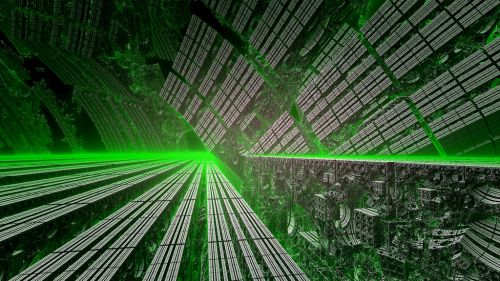
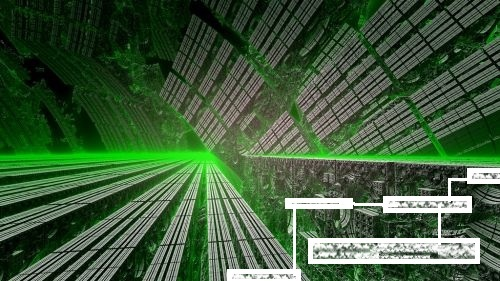
documentation_v3

Changed region(s): [[0.45, 0.6548, 0.96, 1.0], [0.9, 0.5979, 1.0, 0.6548]]

diff --git a/docs/documentation.html b/docs/documentation.html
@@ -46,14 +46,17 @@
 			<h1>Detalii despre design</h1>
 			  <h3>Reprezentare idee de pornire:</h3>
         <img src="./mocks/20181029_141759.jpg" alt="Idee"  width="500" height="400">
-       
-      	<p>Paleta de culori a fost aleasa de asa natura pentru a nu obosi utilizatorul si pentru a inspira profesionalism.</p>
+        <p>Pe parcursul dezvoltarii designului aplicatiei am luat in considerare doi factori importanti:armonizarea elementelor componente si oferirea accesului la
+        acestea facil,pe orice fel de device.</p>
+      	<p>Paleta de culori a fost aleasa de asa natura pentru a nu obosi utilizatorul,a nu-l distrage de la activitatea ce o desfasoara(construirea bazei de date) si pentru a inspira profesionalism.</p>
 		</section>
     <section id="interactiune">
 		 	<h1>Maniera de interactiune cu utilizatorul</h1>
-      <p> <p>Pentru a fluidiza interactiunea utilizatorului cu aplicatia, ne-am concentrat pe crearea unui mediu cat mai prietenos, ce ii facilizeaza accesul la toate
-        uneltele necesare ducerii activitatii la bun sfarsit.Adaugarea de tabele,relatii se va face cu usurinta,tate aceste obtiuni fiind puse la vedere in Navbar. </p>
-			  <p>Reprezentarea grafica a tabelelor si a relatiilor dintre ele va reprezenta piesa centrala, scopul acesteia fiind oferirea utilizatorului a unei imagini de ansamblu cat mai detaliata a bazei de date pe care are de gand sa o creeze.</p> </p>
+        <p>Pentru a fluidiza interactiunea utilizatorului cu aplicatia, ne-am concentrat pe crearea unui mediu cat mai prietenos, ce ii facilizeaza accesul la toate
+        uneltele necesare ducerii activitatii la bun sfarsit.Adaugarea de tabele,relatii se va face cu usurinta,toate aceste obtiuni fiind puse la vedere in Navbar,precum si obtiunile de generare a codului SQL corespunzator bazei de date create. </p>
+			  <p>Reprezentarea grafica a tabelelor si a relatiilor dintre ele va reprezenta piesa centrala, scopul acesteia fiind oferirea utilizatorului a unei imagini de ansamblu cat mai detaliata a bazei de date pe care are de gand sa o creeze. Tot in aceaste sectiune utilizatorul va putea stabili relatii intre tabelele
+         bazei de date,va putea stabili chei primare,va putea adauga noi coloane tabelelor etc.</p>
+        <p>Cele doua sectiuni laterale,Structure and Properties ,au rolul de a oferi un plus de control asupra dezvoltarii bazei de date,atat asupra procesului crearii,cat si asupra continutului bazei de date. </p>
       <img src="./mocks/printsc.png" alt="imaginescreen"  width="500" height="400">
 		</section>
      <section id="git">
